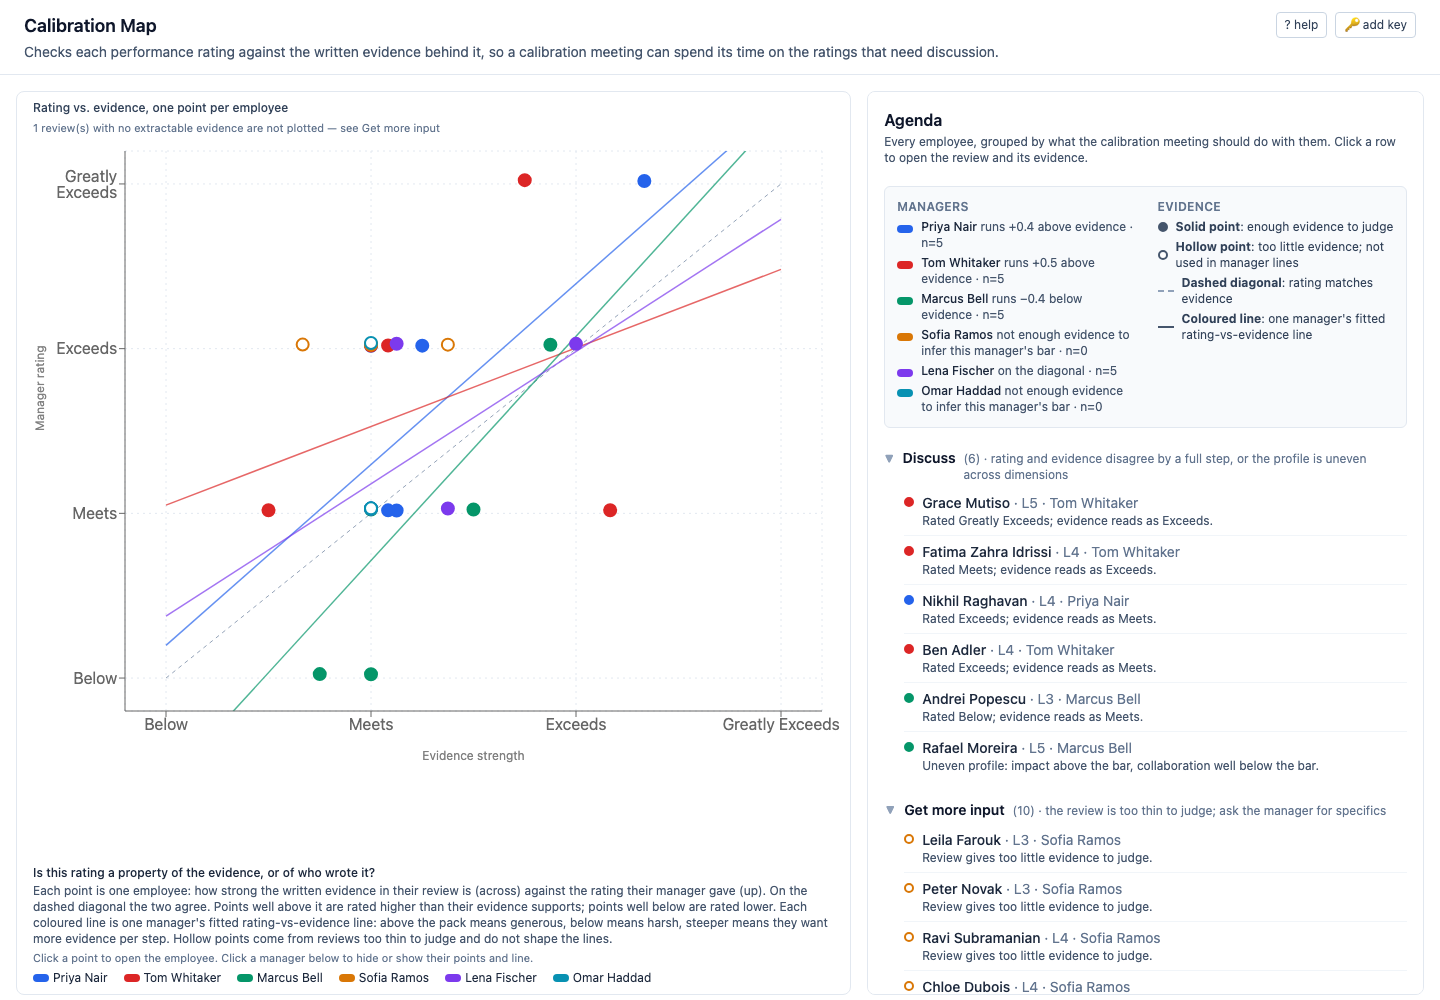
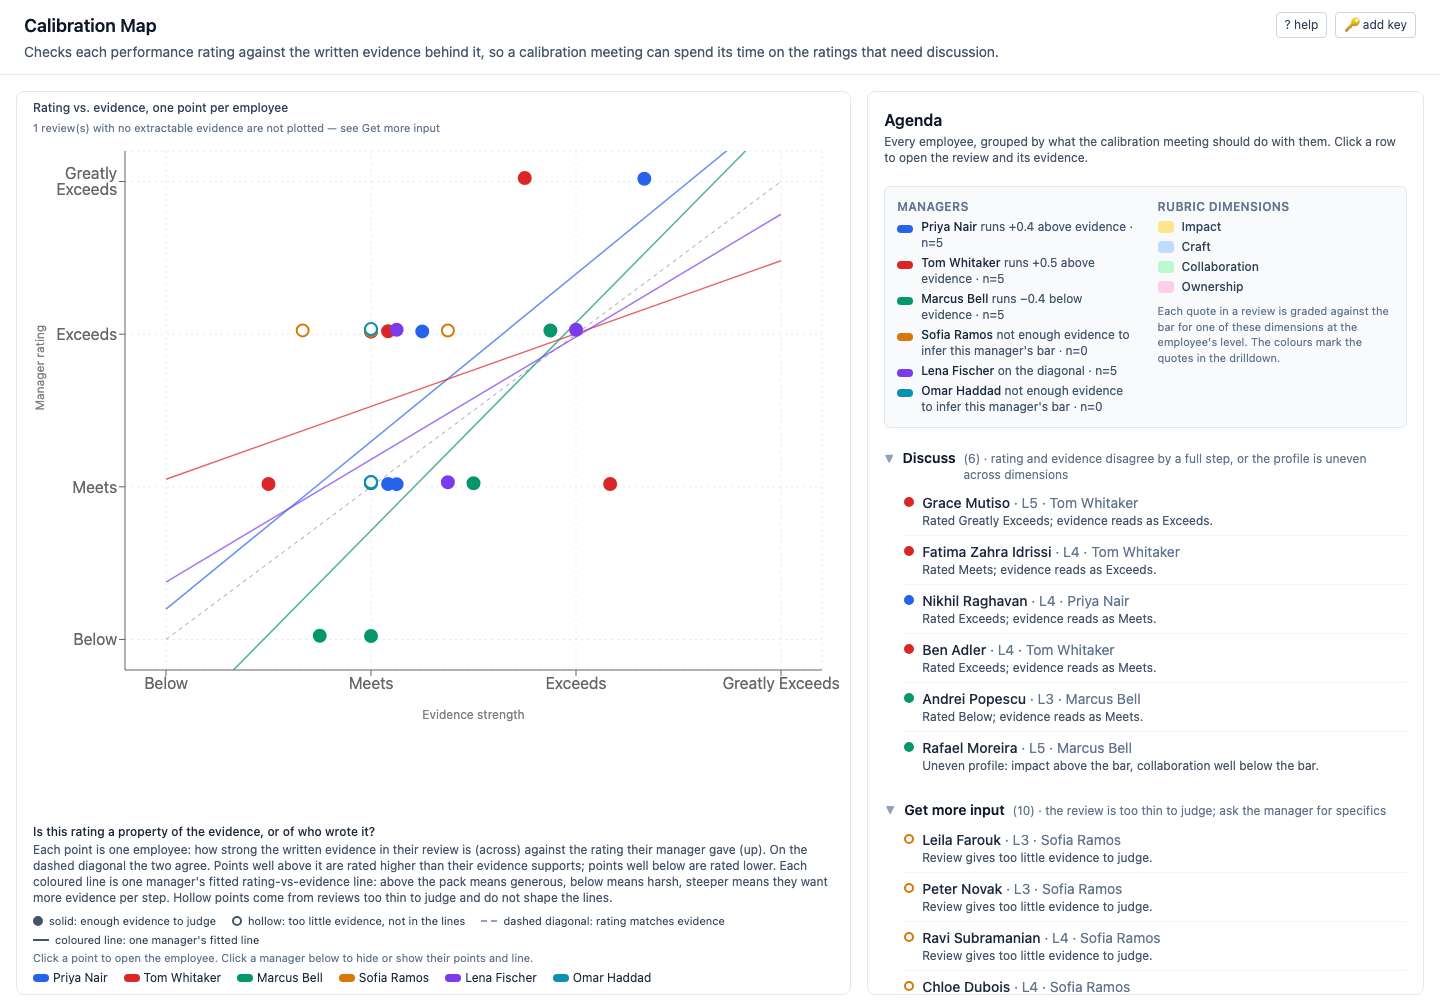
Legend: rubric dimensions in the agenda; map-marks key as a row under the chart
Claude-Session: https://claude.ai/code/session_01VpW2xjFtiASiMFUouXqkw8

diff --git a/src/components/Agenda.tsx b/src/components/Agenda.tsx
@@ -1,8 +1,9 @@
 import type { Employee } from "../lib/data";
-import type { Manager } from "../lib/schema";
+import type { Manager, Rubric } from "../lib/schema";
 import type { AgendaGroup } from "../lib/scoring";
 import type { Derived } from "../state/derive";
 import { managerColor } from "./colors";
+import { DIMENSION_COLORS } from "./dimensionColors";
 import { flagsSelfContradiction } from "../lib/notes";
 
 const GROUPS: { key: AgendaGroup; title: string; hint: string; defaultOpen: boolean }[] = [
@@ -11,7 +12,7 @@ const GROUPS: { key: AgendaGroup; title: string; hint: string; defaultOpen: bool
   { key: "consistent", title: "Looks consistent", hint: "rating matches the evidence", defaultOpen: false },
 ];
 
-export function Agenda({ employees, managers, derived, onSelect }: { employees: Employee[]; managers: Manager[]; derived: Derived; onSelect: (id: string) => void }) {
+export function Agenda({ employees, managers, rubric, derived, onSelect }: { employees: Employee[]; managers: Manager[]; rubric: Rubric; derived: Derived; onSelect: (id: string) => void }) {
   const byId = new Map(employees.map((e) => [e.id, e]));
   return (
     <div className="space-y-5">
@@ -22,7 +23,7 @@ export function Agenda({ employees, managers, derived, onSelect }: { employees: 
         </p>
       </div>
 
-      <Legend managers={managers} derived={derived} />
+      <Legend managers={managers} rubric={rubric} derived={derived} />
 
       {GROUPS.map((g) => {
         const rows = derived.agenda.filter((r) => r.group === g.key);
@@ -64,7 +65,7 @@ export function Agenda({ employees, managers, derived, onSelect }: { employees: 
   );
 }
 
-function Legend({ managers, derived }: { managers: Manager[]; derived: Derived }) {
+function Legend({ managers, rubric, derived }: { managers: Manager[]; rubric: Rubric; derived: Derived }) {
   return (
     <section className="grid grid-cols-1 gap-x-6 gap-y-3 rounded-md border border-slate-200 bg-slate-50 p-3 sm:grid-cols-2">
       <div>
@@ -87,25 +88,19 @@ function Legend({ managers, derived }: { managers: Manager[]; derived: Derived }
         </ul>
       </div>
       <div>
-        <h3 className="text-xs font-semibold uppercase tracking-wide text-slate-500">Evidence</h3>
+        <h3 className="text-xs font-semibold uppercase tracking-wide text-slate-500">Rubric dimensions</h3>
         <ul className="mt-1 space-y-1 text-xs text-slate-700">
-          <li className="flex items-center gap-2">
-            <span className="inline-block h-2.5 w-2.5 shrink-0 rounded-full border-2 border-slate-600 bg-slate-600" />
-            <span><b>Solid point</b>: enough evidence to judge</span>
-          </li>
-          <li className="flex items-center gap-2">
-            <span className="inline-block h-2.5 w-2.5 shrink-0 rounded-full border-2 border-slate-600 bg-white" />
-            <span><b>Hollow point</b>: too little evidence; not used in manager lines</span>
-          </li>
-          <li className="flex items-center gap-2">
-            <span className="inline-block w-4 shrink-0 border-t-2 border-dashed border-slate-400" />
-            <span><b>Dashed diagonal</b>: rating matches evidence</span>
-          </li>
-          <li className="flex items-center gap-2">
-            <span className="inline-block w-4 shrink-0 border-t-2 border-slate-600" />
-            <span><b>Coloured line</b>: one manager's fitted rating-vs-evidence line</span>
-          </li>
+          {rubric.dimensions.map((d) => (
+            <li key={d.id} className="flex items-center gap-2">
+              <span className="inline-block h-3 w-4 shrink-0 rounded-sm" style={{ background: DIMENSION_COLORS[d.id] }} />
+              <span className="font-medium">{d.name}</span>
+            </li>
+          ))}
         </ul>
+        <p className="mt-2 text-[11px] text-slate-500">
+          Each quote in a review is graded against the bar for one of these dimensions at the employee's level. The
+          colours mark the quotes in the drilldown.
+        </p>
       </div>
     </section>
   );

diff --git a/src/components/CalibrationMap.tsx b/src/components/CalibrationMap.tsx
@@ -123,6 +123,12 @@ export function CalibrationMap({ employees, managers, derived, selectedId, onSel
           rating-vs-evidence line: above the pack means generous, below means harsh, steeper means they want more
           evidence per step. Hollow points come from reviews too thin to judge and do not shape the lines.
         </p>
+        <ul className="mt-2 flex flex-wrap gap-x-4 gap-y-1 text-[11px] text-slate-700">
+          <li className="flex items-center gap-1.5"><span className="inline-block h-2.5 w-2.5 rounded-full border-2 border-slate-600 bg-slate-600" /> solid: enough evidence to judge</li>
+          <li className="flex items-center gap-1.5"><span className="inline-block h-2.5 w-2.5 rounded-full border-2 border-slate-600 bg-white" /> hollow: too little evidence, not in the lines</li>
+          <li className="flex items-center gap-1.5"><span className="inline-block w-4 border-t-2 border-dashed border-slate-400" /> dashed diagonal: rating matches evidence</li>
+          <li className="flex items-center gap-1.5"><span className="inline-block w-4 border-t-2 border-slate-600" /> coloured line: one manager's fitted line</li>
+        </ul>
         <p className="mt-1 text-[11px] text-slate-500">Click a point to open the employee. Click a manager below to hide or show their points and line.</p>
       </div>
       <ul className="flex flex-wrap gap-x-4 gap-y-1 px-2 pt-1 text-xs">

diff --git a/src/components/App.tsx b/src/components/App.tsx
@@ -51,7 +51,7 @@ export function App() {
               extractor={extractor}
             />
           ) : (
-            <Agenda employees={employees} managers={managers} derived={derived} onSelect={setSelectedId} />
+            <Agenda employees={employees} managers={managers} rubric={rubric} derived={derived} onSelect={setSelectedId} />
           )}
         </aside>
       </main>

diff --git a/docs/ui-design.md b/docs/ui-design.md
@@ -102,10 +102,11 @@ first viewing it was hard to tell what the page was for. Changes made:
 - **Agenda header and legend.** The agenda pane now has a heading and a
   subtitle explaining what the groups are for. The manager legend moved from
   the bottom of the pane to the top, into a two-column block: managers
-  (colour, name, one-line summary of their fitted line, n) on the left and a
-  key to the map's marks (solid point, hollow point, dashed diagonal, coloured
-  line) on the right. The chart keeps its own manager row underneath, because
-  that row is the toggle.
+  (colour, name, one-line summary of their fitted line, n) on the left and the
+  rubric dimensions (Impact, Craft, Collaboration, Ownership, in the colours
+  used to highlight quotes in the drilldown) on the right. The key to the map's
+  marks (solid point, hollow point, dashed diagonal, coloured line) sits as a
+  horizontal row under the chart, next to the manager toggle row.
 - **Collapsible agenda groups.** Discuss, Get more input and Looks consistent
   are native `<details>` elements, so each expands and collapses independently
   with no state to manage and keyboard support for free. Discuss and Get more
@@ -122,7 +123,7 @@ Updated wireframe of the default panel:
 │ Rating vs. evidence, one point per    │ Agenda                               │
 │ employee                 [n overrides]│ Every employee, grouped by what the  │
 │                                       │ meeting should do with them…         │
-│  (chart)                              │ ┌─ Managers ──────┬─ Evidence ─────┐ │
+│  (chart)                              │ ┌─ Managers ──────┬─ Rubric ───────┐ │
 │                                       │ │ ── Priya  +0.4  │ ● enough       │ │
 │                                       │ │ ── Tom    +0.5  │ ○ too little   │ │
 │                                       │ │ ── …            │ ╱ diagonal     │ │
@@ -130,7 +131,8 @@ Updated wireframe of the default panel:
 │ Is this rating a property of the      │ ▼ Discuss (6) · …                    │
 │ evidence, or of who wrote it?         │     rows…                            │
 │ Each point is one employee: …         │ ▼ Get more input (10) · …            │
-│ Click a point… Click a manager below… │     rows…                            │
+│ ● solid ○ hollow ╱ diagonal ── line   │     rows…                            │
+│ Click a point… Click a manager below… │                                      │
 │ ■ Priya ■ Tom ■ Marcus ■ …  (toggles) │ ▶ Looks consistent (14) · …          │
 └───────────────────────────────────────┴──────────────────────────────────────┘
 ```
